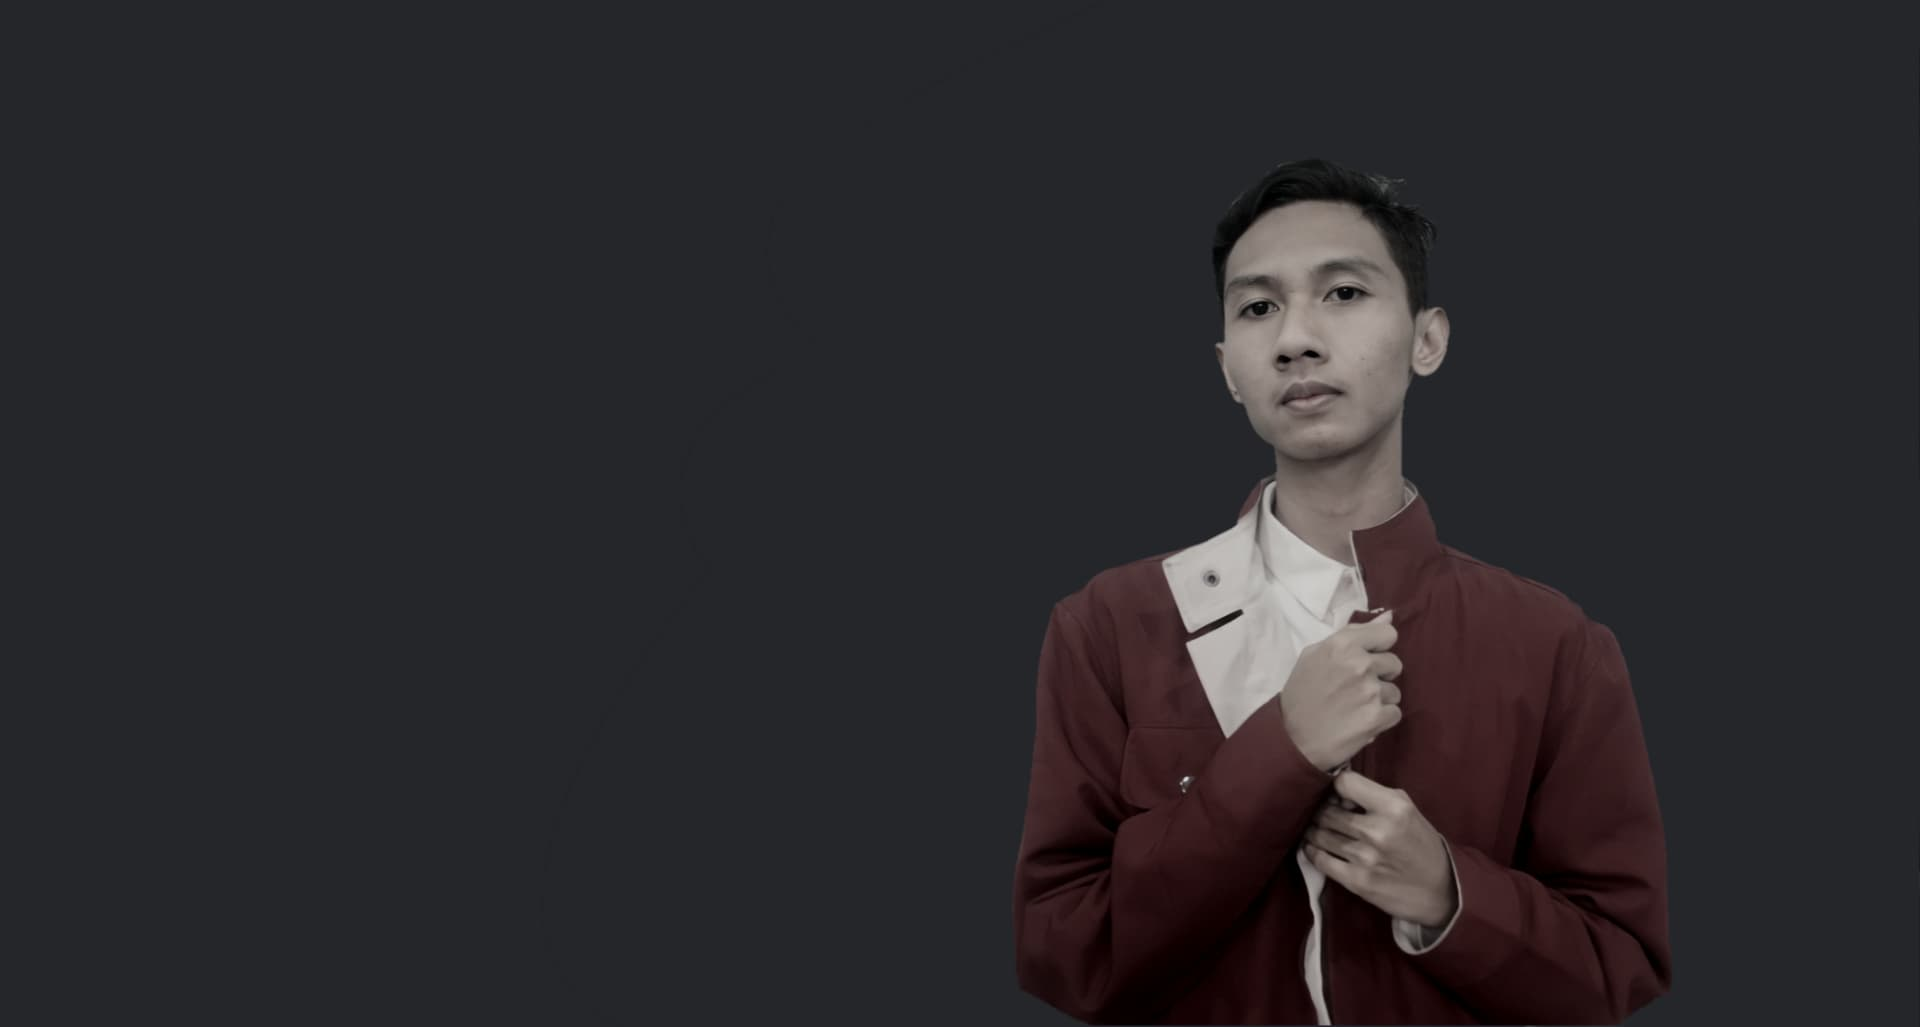
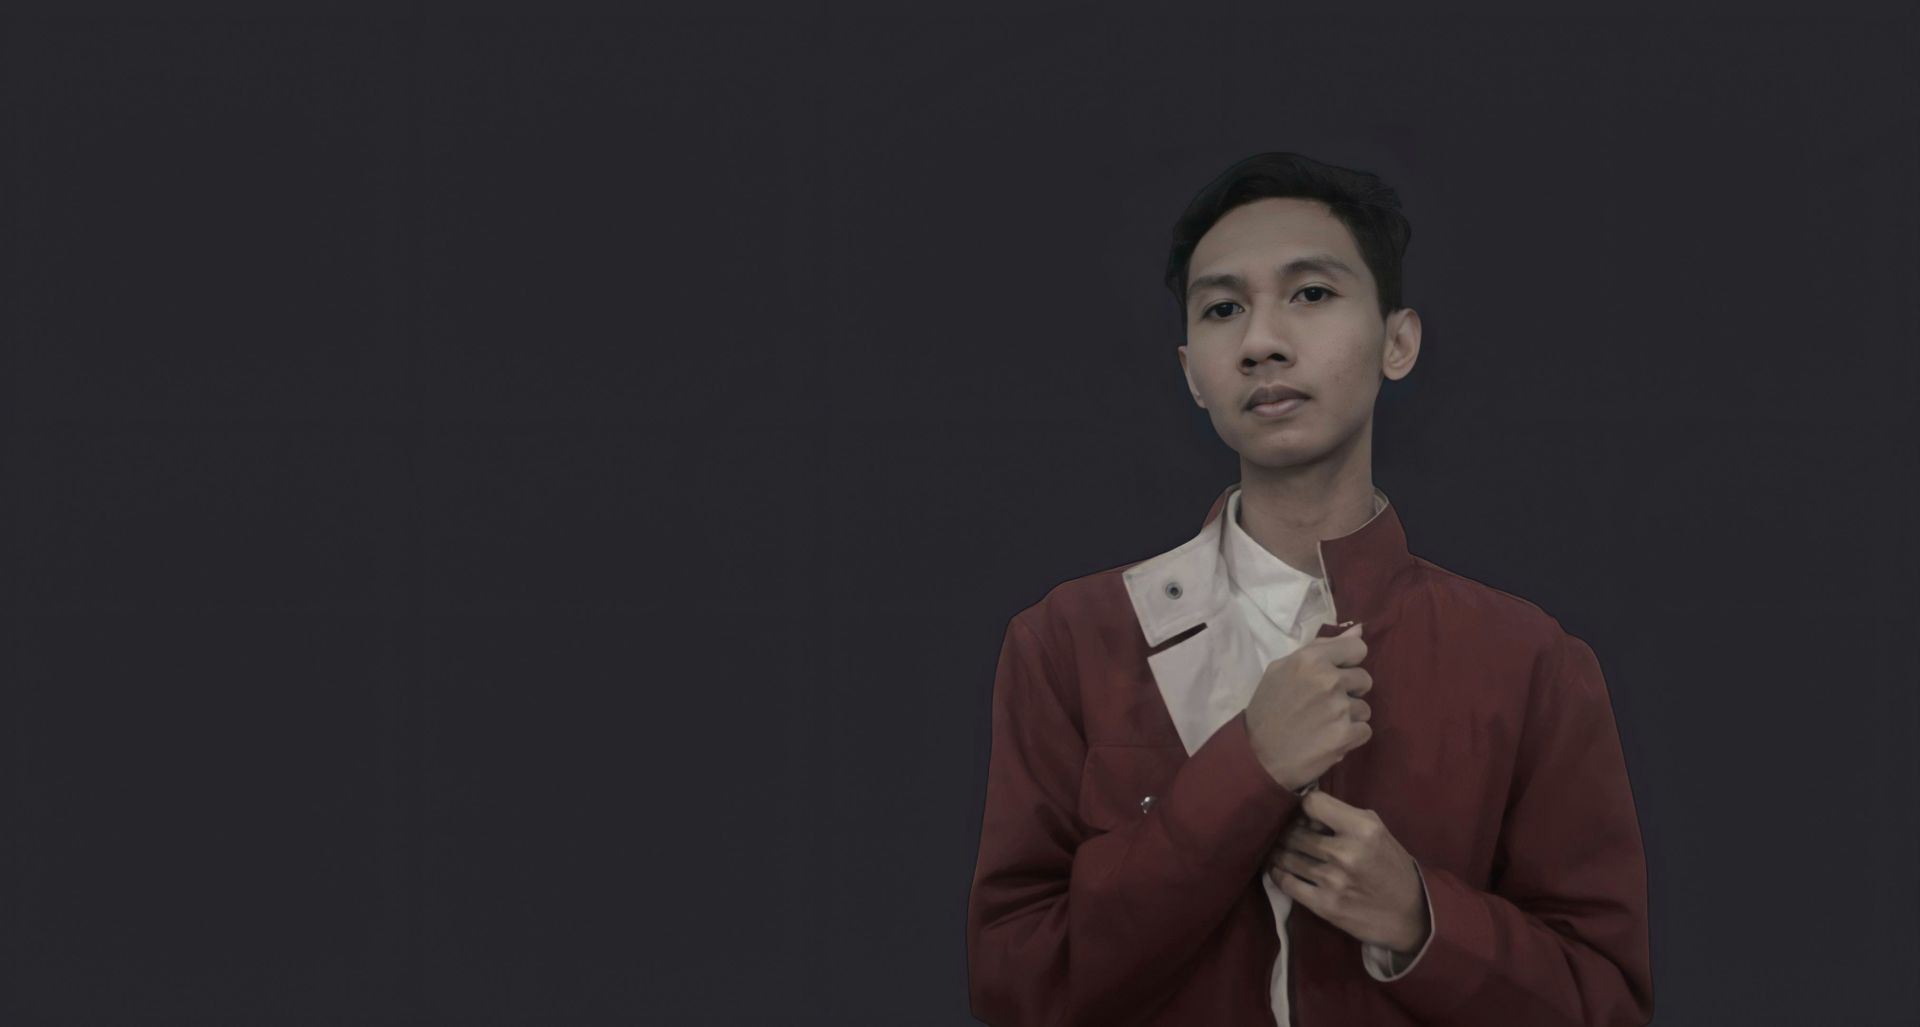
update photo, typography and skill

diff --git a/index.html b/index.html
@@ -63,7 +63,7 @@
                         <p class="text-light mb-3">Hello, my name is</p>
                         <h1 class="h1-large mb-5">ILHAM MUHAMAD. <br> I'm a <span class="color-main">Web Developer</span></h1>
                         
-                            <a class="btn-main page-scroll" href="https://drive.google.com/file/d/17qRmPKHh5_A38BLMTCZilfoj7H9WqP_B/view?usp=sharing" target="_blank">View CV</a>
+                            <a class="btn-main page-scroll" href="#" target="_blank">View CV</a>
                         
                     </div> 
                 </div> 
@@ -78,22 +78,32 @@
             <div class="row align-items-center">
                 <div class="col-lg-3">
                     <div class="img">
-                        <img class="img-fluid" src="images/me.jpg" alt="">
+                        <img class="img-fluid" src="images/me.png" alt="">
                     </div> 
                 </div> 
                 <div class="col-lg-9">
                     <div class="text-container d-flex flex-column justify-content-center">
-                        <h4 class="">Tentang Saya</h4>
-                        <p>Hallo.. Perkenalkan, nama saya Ilham Muhamad. 22 tahun berasal dari Kabupaten Trenggalek, Jawa Timur. Saya mahasiswa semester akhir di salah satu perguruan tinggi di bandung.</p>
-                        <p>Saya sangat menyukai dunia programming khususnya Web Programming. Saat ini, saya memperdalam keahlian saya dibidang Backend Developer. saya terbiasa bekerja menggunakan bahasa pemograman PHP dengan Framework Laravel.</p>
-                        <p>Berikut sedikit gambaran tentang keahlian saya dibidang ini.</p>
+                        <h4 class="">About Me</h4>
+                        <p>hello.. Iam Ilham Muhamad, 23 years old from Trenggalek, East java.</p>
+                        <p>Iam a Web Developer with backend and frontend skills. My expertise in backend applications, and main
+                        language i use is laravel and the ecosystem.
+                        Beside that, Iam also familiar with react javascript and typescript to build the frontend web application.
+                        I am a lifelong learner, and really likes challenges especially in technology...</p>
+                        <p>here is the tech stack I use</p>
                         <div class="icons-container">
-                            <img src="images/details-icon-html.png" alt="">
-                            <img src="images/details-icon-css.png" alt="">
-                            <img src="images/details-icon-bootstrap.png" alt="">
-                            <img src="images/details-icon-javascript.png" alt="">
-                            <img src="images/details-icon-laravel.png" alt="">
-                            <img src="images/details-icon-mysql.png" alt="">
+                            <img class="mb-3" src="images/details-icon-html.png" alt="">
+                            <img class="mb-3" src="images/details-icon-css.png" alt="">
+                            <img class="mb-3" src="images/details-icon-bootstrap.png" alt="">
+                            <img class="mb-3" src="images/tailwind-icon.png" alt="">
+                            <img class="mb-3" src="images/details-icon-javascript.png" alt="">
+                            <img class="mb-3" src="images/jquery-icon.png" alt="">
+                            <img class="mb-3" src="images/react-icon.png" alt="">
+                            <img class="mb-3" src="images/ts-icon.png" alt="">
+                            <img class="mb-3" src="images/php-icon.png" alt="">
+                            <img class="mb-3" src="images/details-icon-laravel.png" alt="">
+                            <img class="mb-3" src="images/livewire-icon.png" alt="">
+                            <img class="mb-3" src="images/details-icon-mysql.png" alt="">
+                            <img class="mb-3" src="images/pgsql-icon.png" alt="">
                         </div>
                     </div> 
                 </div> 
@@ -106,10 +116,12 @@
                     
                         <h6 class="mb-3">Frontend</h6>
                         <ul>
-                            <li>Mampu Membuat Website menggunakan HTML+CSS+Javascript.</li>
-                            <li>Menguasai CSS Framework Bootstrap.</li>
-                            <li>Memahami manipulasi DOM untuk website dinamis.</li>
-                            <li>Memahami penggunaan Fetch/Ajax untuk melakukan request API.</li>
+                            <li>Build a website using HTML+CSS+Javascript.</li>
+                            <li>Able to slicing well from design to website.</li>
+                            <li>Understand to use Javascript libraries like Jquery and React.</li>
+                            <li>Familiar with using Typescript in React</li>
+                            <li>Understand to use CSS Framework like Boostrap and Tailwind.</li>
+                            <li>Familiar with API integration, or third party application.</li>
                         </ul>
                     
                 </div> 
@@ -117,10 +129,13 @@
                     
                         <h6 class="mb-3">Backend</h6>
                         <ul>
-                            <li>Mengasai dasar Laravel seperti Migration, Eloquent, CRUD, dll.</li>
-                            <li>Memahami Konsep OOP dan MVC.</li>
-                            <li>Menggunakan Livewire sebagai antarmuka yang dinamis.</li>
-                            <li>Mampu membuat dan integrasi Restfull API.</li>
+                            <li>Build a Website or Backend using Laravel</li>
+                            <li>Familiar with Laravel Feature like Eloquent, Event, Queue, etc.</li>
+                            <li>Familiar with Laravel Ecosystem like Livewire, Jetstream, Sanctum.</li>
+                            <li>Familiar with OOP dan MVC concept.</li>
+                            <li>Able to use laravel design patterns like repository and service.</li>
+                            <li>Familiar to build a Restfull API.</li>
+                            <li>Familiar with MySQL and PostgreSQL database.</li>
                         </ul>
                     
                 </div> 
@@ -134,8 +149,8 @@
             <div class="row justify-content-center">
                 <div class="col-lg-8 col-12">
                     <div class="page-header">
-                        <h2 class="">Project Saya</h2>
-                        <p>Berikut adalah beberapa project yang pernah saya kerjakan.</p>
+                        <h2 class="">My Project</h2>
+                        <p>Here is the personal project that I have worked.</p>
                     </div>
                 </div> 
             </div> 
@@ -165,16 +180,18 @@
                             </div>
                             <div class="col-lg-4 col-md-12 col-12" data-aos="fade-up" data-aos-delay="200">
                                 <div class="description">
-                                    <h4>SI Pengelolaan Barang</h4>
-                                    <p class="mt-4">Project ketika Magang di kantor Kementrian Agama Kabupaten Trenggalek. Sistem Informasi Pengelolaan Barang ini dibuat berdasarkan kebutuhan dan permintaan pihak operator gudang yang sebelumnya masih manual menggunakan buku.</p>
-                                    <p>Fokus utama sistem ini adalah untuk pencatatan barang masuk dan keluar serta memonitoring stok barang secara otomatis baik untuk menambahkan data masuk/keluar, maupun ketika mengubah data ketika ada kesalahan, serta laporan secara otomatis setiap bulannya yang di export sebagai file Excel. </p>
-                                    <p>Sistem ini dibuat dengan menggunakan PHP(Laravel 7), Mysql, Bootsrap, Serta Ajax untuk CRUD secara Realtime.</p>
+                                    <h4>Inventory Management System</h4>
+                                    <p class="mt-4">This is my project when I did an internship at the Trenggalek Regency KEMENAG. This project was created based on the needs and requests of the warehouse operator who previously used books manually..</p>
+                                    <p>The main focus of this system is for recording inbound and outbound product, inventory monitoring automatically
+                                    both for view history of inbound/outbound data, changing data when there is an error, and automatic monthly
+                                    reports that are exported as Excel files.</p>
+                                    <p>This system is built using PHP(Laravel 7), Mysql, Bootsrap, and Javascript.</p>
                                 </div>
                             </div>
                         </div>
                     </div> 
                 </div>
-                <div class="col-lg-12">
+                <!-- <div class="col-lg-12">
                     <div class="project-container">
                         <div class="row align-items-center">
                             <div class="col-lg-8 col-md-12 col-12" data-aos="fade-up">
@@ -222,8 +239,8 @@
                             </div>
                         </div> 
                     </div> 
-                </div>
-                <div class="col-lg-12">
+                </div> -->
+                <!-- <div class="col-lg-12">
                     <div class="project-container">
                         <div class="row align-items-center">
                             <div class="col-lg-8 col-md-12 col-12" data-aos="fade-up">
@@ -264,7 +281,7 @@
                             </div>
                         </div>  
                     </div> 
-                </div>
+                </div> -->
                 <div class="col-lg-12">
                     <div class="project-container">
                         <div class="row align-items-center">
@@ -293,17 +310,18 @@
                             </div>
                             <div class="col-lg-4 col-md-12 col-12" data-aos="fade-up" data-aos-delay="200">
                                 <div class="description">
-                                    <h4>Sistem Pendukung Keputusan (SPK)</h4>
-                                    <p class="">Program Sistem Pendukung Keputusan dengan Metode Simple Additive Weighting (SAW). Program dibuat fleksible sehingga bisa digunakan untuk kasus apa saja. 
-                                    beberapa fitur utama yang ada di website ini antara lain :
-                                    <li>Terdapat 2 role. Admin dan user</li>
+                                    <h4>Decision Support System (practice)</h4>
+                                    <p class="">Decision Support System Program with Simple Additive Weighting (SAW) Method. The program is made flexible so that it can
+                                    be used for any case.
+                                    Some of the main features on this website :
+                                    <li>There are 2 roles. Admins and users</li>
                                     <li>Crud Alternatif</li>
-                                    <li>Crud Kriteria</li>
+                                    <li>Crud Criteria</li>
                                     <li>Crud Crips</li>
-                                    <li>Input nilai berdasarkan Crips</li>
-                                    <li>Perhitungan SPK secara lengkap</li>
+                                    <li>Score input by Crips</li>
+                                    <li>Complete calculation</li>
                                     </p>
-                                    <p>Sistem ini dibuat dengan menggunakan PHP(Laravel 8), Mysql, Bootsrap.</p>
+                                    <p>This system is built using PHP(Laravel 8), Mysql, Bootsrap.</p>
                                 </div>
                             </div>
                         </div>  
@@ -337,16 +355,20 @@
                             </div>
                             <div class="col-lg-4 col-md-12 col-12" data-aos="fade-up" data-aos-delay="200">
                                 <div class="description">
-                                    <h4>Forecasting</h4>
-                                    <p class="">Program Forecasting(peramalan) dengan menggunakan metode Double Exponential Smoothing. dalam perhitungannya, program ini bisa mencari alpha optimal secara otomatis berdasarkan nilai mapenya. jadi tidak perlu input alpha manual satu persatu untuk mencari nilai mape terkecil. 
-                                    beberapa fitur utama yang ada di website ini antara lain :
-                                    <li>Terdapat 2 role. Admin dan user</li>
-                                    <li>Crud data aktual</li>
-                                    <li>Import Data (Excel)</li>
-                                    <li>Pencarian nilai alpha optimal secara otomatis</li>
-                                    <li>Grafik perbandingan antara data aktual dan hasil prediksi</li>
+                                    <h4>Forecasting (S1 Thesis Project)</h4>
+                                    <p class="">Forecasting using the Double Exponential Smoothing method. in this calculations, this program can
+                                    find the optimal alpha automatically based on the mape value. so no need to manually input alpha one by one to find the
+                                    smallest mape value.
+                                    <p>This project was built for my graduation requirements</p>
+                                    Some of the main features on this website :
+                                    <li>There are 2 roles. Admins and users</li>
+                                    <li>Crud actua; data</li>
+                                    <li>Import actual data (Excel)</li>
+                                    <li>Find the optimal alpha automatically</li>
+                                    <li>Comparison graph between actual data and predicted results</li>
+                                    <li>Complete calculation</li>
                                     </p>
-                                    <p>Sistem ini dibuat dengan menggunakan PHP(Laravel 8), Mysql, Bootsrap.</p>
+                                    <p>This system is built using PHP(Laravel 8), Mysql, Bootsrap.</p>
                                 </div>
                             </div>
                         </div>  
@@ -365,7 +387,7 @@
             </div>
 
             <div class="github-project text-center">
-                <a href="https://github.com/Ilham06/" target="_blank" class="btn btn-primary">Lihat Project Lain di Github</a>
+                <a href="https://github.com/Ilham06/" target="_blank" class="btn btn-primary">View other project in my Github</a>
             </div>
         </div>
     </div>
@@ -376,8 +398,8 @@
             <div class="row justify-content-center">
                 <div class="col-lg-8 col-12">
                     <div class="page-header">
-                        <h2>Kontak Saya</h2>
-                        <p>Berikut daftar kontak dan Media Sosial saya.</p>
+                        <h2>My Contact</h2>
+                        <p>It will be very nice if we work together.</p>
                     </div>
                 </div>
             </div>
@@ -385,7 +407,7 @@
                 <div class="col-lg-12">
                     <div class="contact-container">
                         <div class="contact-info mb-4">
-                            <a href="#"><i class="fas fa-map-marker-alt"></i> Trenggalek, Jawa Timur</a>
+                            <a href="#"><i class="fas fa-map-marker-alt"></i> Tebet, South Jakarta</a>
                             <a href="https://wa.me/+6282234375472" target="_blank"><i class="fas fa-phone-alt"></i> +62 82234375472</a>
                             <a href="mailto:ilhammuhamads6999@gmail.com" target="_blank"><i class="fas fa-envelope"></i> ilhammuhamads6999@gmail.com</a>
                         </div>
@@ -405,6 +427,12 @@
                             <a href="https://github.com/Ilham06/" target="_blank">
                                 <i class="fas fa-circle fa-stack-2x"></i>
                                 <i class="fab fa-github fa-stack-1x"></i>
+                            </a>
+                        </span>
+                        <span class="fa-stack">
+                            <a href="https://www.linkedin.com/in/ilham-muhamad-suparyono-841102232/" target="_blank">
+                                <i class="fas fa-circle fa-stack-2x"></i>
+                                <i class="fab fa-linkedin fa-stack-1x"></i>
                             </a>
                         </span>
                     </div>

diff --git a/css/styles.css b/css/styles.css
@@ -102,12 +102,8 @@ a:hover {
 	transition: all 0.2s ease;
 }
 
-.fa-stack:hover .fa-stack-1x {
-	color: #1E84EC;
-}
-
 .fa-stack:hover .fa-stack-2x {
-    color: #ffffff;
+		transform: scale(1.1);
 }
 
 .color-main {
@@ -274,7 +270,7 @@ a:hover {
 	margin-left: 10px;
 }
 
-.about ul {
+/* .about ul {
 	list-style: none;
 	padding-left: 0;
 }
@@ -283,7 +279,7 @@ a:hover {
     content: "\2713";
     font-weight: bold;
     padding-right: 5px;
-}
+} */
 
 
 /********************/
